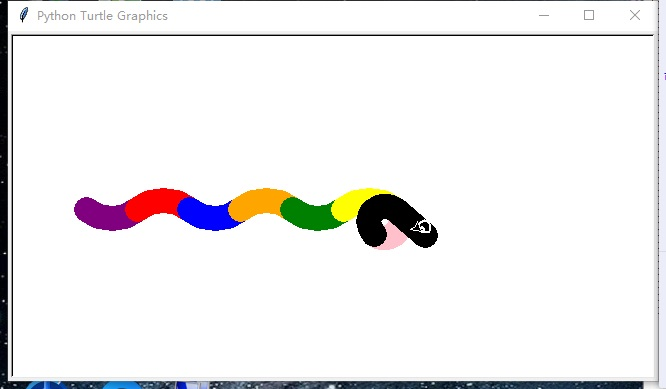
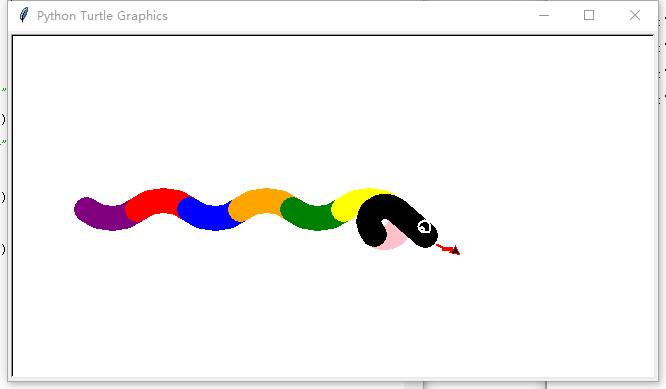
Add files via upload

diff --git a/115-drawpython.py b/115-drawpython.py
@@ -30,4 +30,10 @@ turtle.pencolor("white")
 turtle.pensize(2)
 turtle.circle(2,360)
 turtle.circle(6,360)
- 
+turtle.penup()
+turtle.fd(20)
+turtle.pendown()
+turtle.pencolor("red")
+turtle.circle(20, 50)
+turtle.backward(10)
+turtle.circle(-20, 50)
